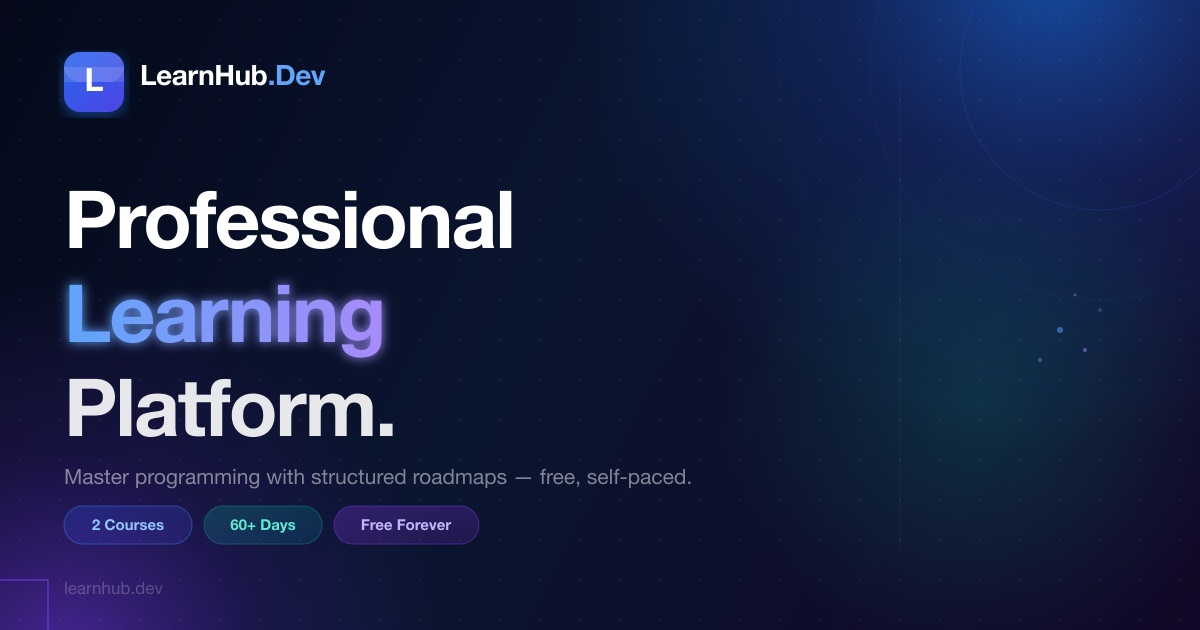
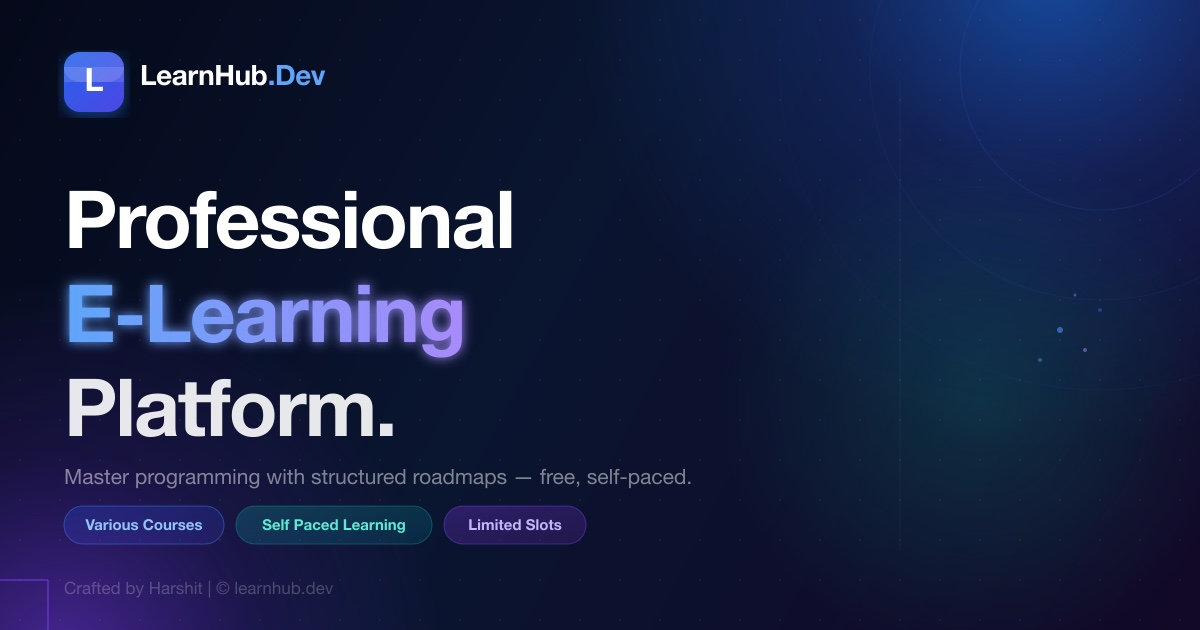
Update SEO and OG attributes

Changed region(s): [[0.0617, 0.4222, 0.4008, 0.573], [0.0617, 0.7841, 0.4933, 0.8746], [0.0925, 0.9048, 0.185, 0.9651]]

diff --git a/index.html b/index.html
@@ -8,8 +8,8 @@
      PRIMARY META TAGS
      Update "https://stealthdark.github.io/learnhub/" to your actual domain.
 ════════════════════════════════════════════════════════════ -->
-<title>LearnHub — Professional Learning Platform</title>
-<meta name="title" content="LearnHub — Professional Learning Platform"/>
+<title>LearnHub — Professional E-Learning Platform</title>
+<meta name="title" content="LearnHub — Professional E-Learning Platform"/>
 <meta name="description" content="Master programming with structured roadmaps. Node.js, Frontend Development, and more — free, self-paced courses designed for real-world skills."/>
 <meta name="keywords" content="learn programming, coding roadmap, nodejs course, frontend development, html css javascript, web development, free online courses, self-paced learning"/>
 <meta name="author" content="LearnHub"/>
@@ -19,7 +19,7 @@
 <!-- Open Graph / Facebook -->
 <meta property="og:type" content="website"/>
 <meta property="og:url" content="https://stealthdark.github.io/learnhub/"/>
-<meta property="og:title" content="LearnHub — Professional Learning Platform"/>
+<meta property="og:title" content="LearnHub — Professional E-Learning Platform"/>
 <meta property="og:description" content="Master programming with structured roadmaps. Node.js, Frontend Development, and more — free, self-paced courses designed for real-world skills."/>
 <meta property="og:image" content="https://stealthdark.github.io/learnhub/assets/og/learnhub-og.jpg"/>
 <meta property="og:image:type" content="image/jpeg"/>
@@ -32,7 +32,7 @@
 <!-- Twitter Card -->
 <meta name="twitter:card" content="summary_large_image"/>
 <meta name="twitter:url" content="https://stealthdark.github.io/learnhub/"/>
-<meta name="twitter:title" content="LearnHub — Professional Learning Platform"/>
+<meta name="twitter:title" content="LearnHub — Professional E-Learning Platform"/>
 <meta name="twitter:description" content="Master programming with structured roadmaps. Node.js, Frontend, and more — free, self-paced courses."/>
 <meta name="twitter:image" content="https://stealthdark.github.io/learnhub/assets/og/learnhub-og.jpg"/>
 <meta name="twitter:image:alt" content="LearnHub.Dev — Professional Learning Platform"/>

diff --git a/js/components/AuthPage.js b/js/components/AuthPage.js
@@ -7,6 +7,7 @@ function AuthPage({onLogin,showToast,pendingCourseId}){
   const[errors,setErrors]=useState({});
   const[loading,setLoading]=useState(false);
   const[showPass,setShowPass]=useState(false);
+  const[showConfirmPass,setShowConfirmPass]=useState(false);
   const[pendingVerify,setPendingVerify]=useState(null);// {email, code}
   const[verifyInput,setVerifyInput]=useState("");
   const[verifyError,setVerifyError]=useState("");
@@ -233,18 +234,19 @@ function AuthPage({onLogin,showToast,pendingCourseId}){
           {tab==="signup"&&(
             <div className="form-group">
               <label className="label">Confirm Password</label>
-              <input className={`input${errors.confirmPassword?" error":""}`} type="password" placeholder="Repeat password" value={form.confirmPassword} onChange={e=>set("confirmPassword",e.target.value)}/>
+              <div style={{position:"relative"}}>
+                <input className={`input${errors.confirmPassword?" error":""}`} type={showConfirmPass?"text":"password"} placeholder="Repeat password" value={form.confirmPassword} onChange={e=>set("confirmPassword",e.target.value)}/>
+                <button onClick={()=>setShowConfirmPass(!showConfirmPass)} style={{position:"absolute",right:10,top:"50%",transform:"translateY(-50%)",background:"none",border:"none",cursor:"pointer",color:"var(--text3)"}}>
+                  {showConfirmPass?<Icon.EyeOff/>:<Icon.Eye/>}
+                </button>
+              </div>
               {errors.confirmPassword&&<p className="error-text">{errors.confirmPassword}</p>}
+              
             </div>
           )}
           <button className="btn btn-primary btn-lg" onClick={tab==="login"?handleLogin:handleSignup} disabled={loading} style={{width:"100%",justifyContent:"center",marginTop:4}}>
             {loading?<span className="spinner"/>:tab==="login"?"Sign In":"Create Account"}
           </button>
-          {tab==="login"&&(
-            <p style={{textAlign:"center",fontSize:12,color:"var(--text3)",marginTop:16}}>
-              Demo admin: admin@learnhub.dev / Admin@123
-            </p>
-          )}
         </div>
       </div>
     </div>

diff --git a/assets/og/generate-og.html b/assets/og/generate-og.html
@@ -125,13 +125,16 @@ function drawBadge(ctx,x,y,text,bg,color){
   ctx.fillStyle='rgba(255,255,255,0.9)';
   ctx.font='bold 28px system-ui,sans-serif';
   ctx.fillText('LearnHub',128,95);
+  ctx.fillStyle='#60a5fa';
+  ctx.fillText('.Dev',128+ctx.measureText('LearnHub').width,95);
+  ctx.fillStyle='rgba(255,255,255,0.9)';
 
   // Main headline
   ctx.fillStyle='#ffffff';
   ctx.font='bold 72px system-ui,sans-serif';
   ctx.fillText('Professional',64,240);
   ctx.fillStyle='#1a73e8';
-  ctx.fillText('Learning',64,325);
+  ctx.fillText('E-Learning',64,325);
   ctx.fillStyle='#ffffff';
   ctx.fillText('Platform.',64,410);
 
@@ -141,7 +144,7 @@ function drawBadge(ctx,x,y,text,bg,color){
   ctx.fillText('Master programming with structured roadmaps.',64,470);
 
   // Stats pills
-  const stats=[['2 Courses','#1a73e8'],['60+ Days','#0d9488'],['Free Forever','#7c3aed']];
+  const stats=[['Various Courses','#1a73e8'],['Self Paced Learning','#0d9488'],['Limited Slots','#7c3aed']];
   let sx=64;
   stats.forEach(([label,color])=>{
     ctx.font='bold 16px system-ui,sans-serif';
@@ -161,7 +164,7 @@ function drawBadge(ctx,x,y,text,bg,color){
   // URL
   ctx.fillStyle='rgba(255,255,255,0.25)';
   ctx.font='18px system-ui,sans-serif';
-  ctx.fillText('learnhub.dev',64,598);
+  ctx.fillText('Crafted by Harshit | © learnhub.dev',64,598);
 })();
 
 // ── Card 1: Node.js Course ─────────────────────────────────────
